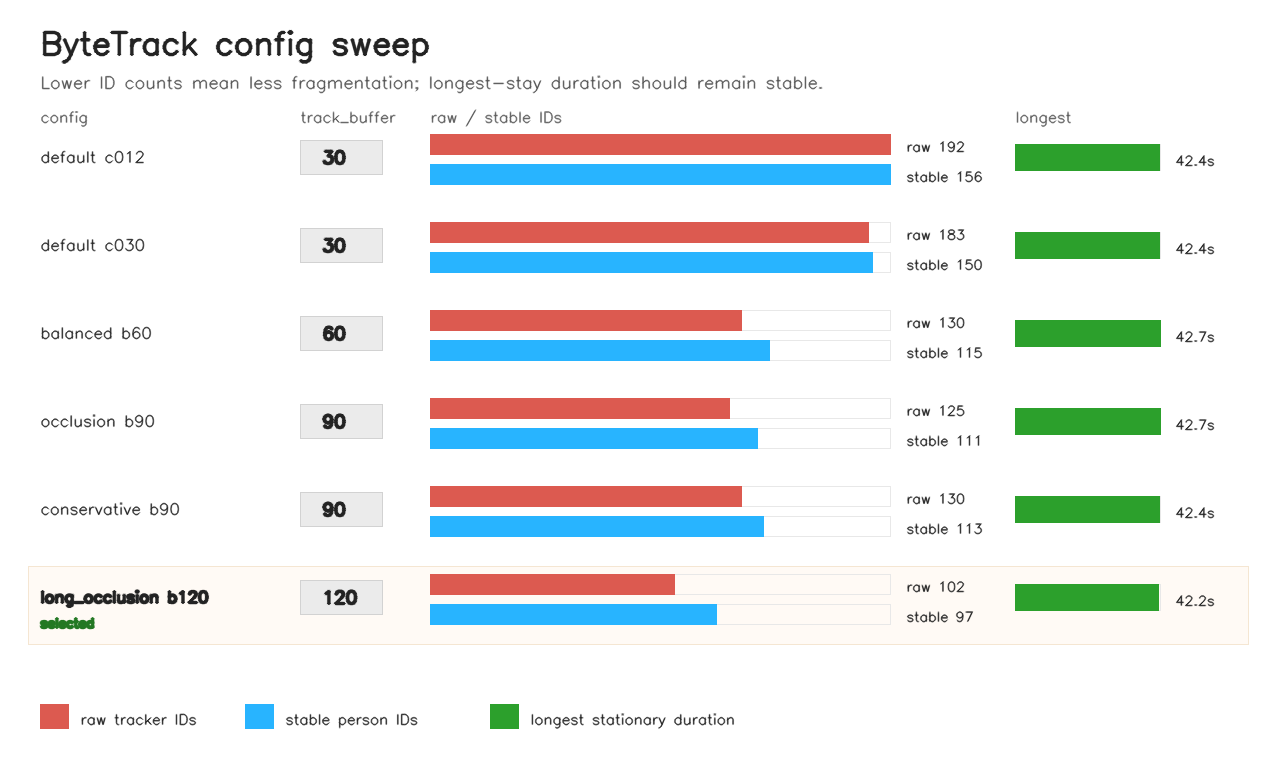
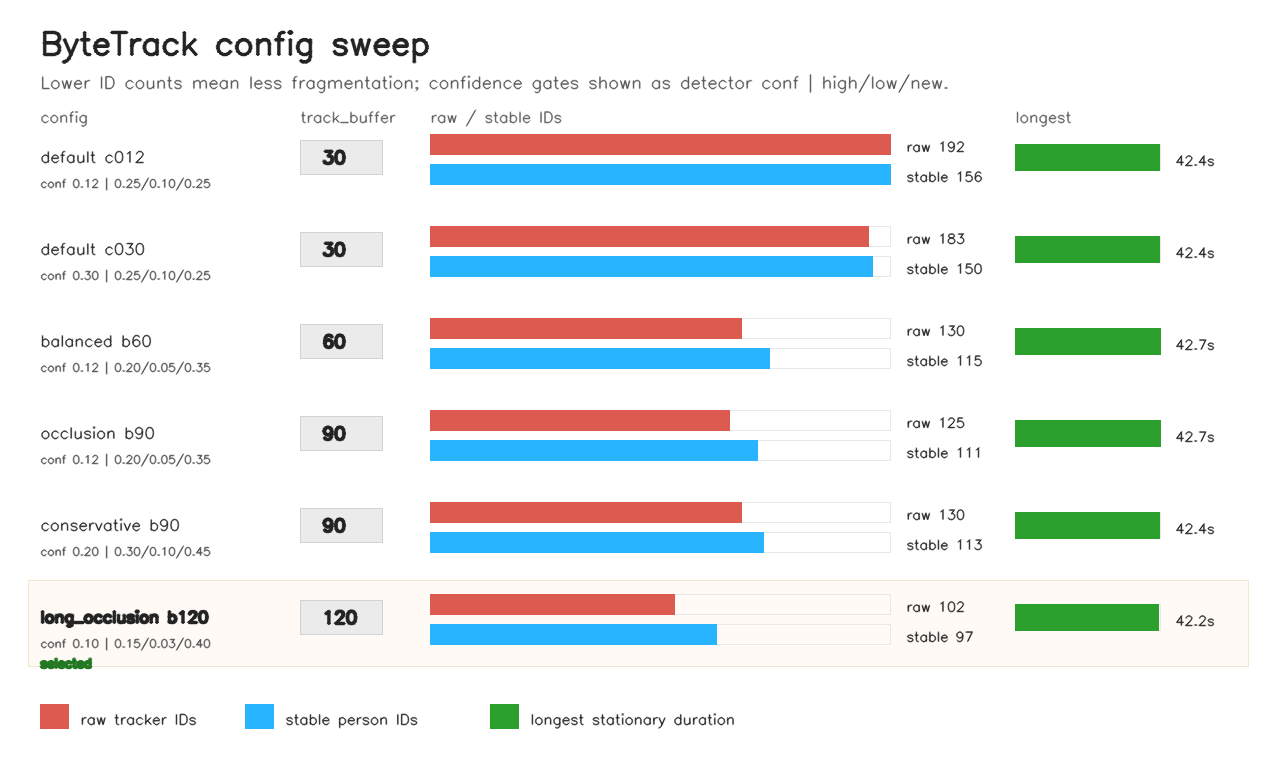
revised README.md by involving Bytetrack config experimental tracking and the necessary of track_buffer and confident score as ByteTrack hyperparameter

diff --git a/optimize_bytetrack.py b/optimize_bytetrack.py
@@ -277,14 +277,14 @@ def draw_bytetrack_sweep_chart(
     draw_text(canvas, "ByteTrack config sweep", (40, 54), scale=1.05, thickness=2)
     draw_text(
         canvas,
-        "Lower ID counts mean less fragmentation; longest-stay duration should remain stable.",
+        "Lower ID counts mean less fragmentation; confidence gates shown as detector conf | high/low/new.",
         (40, 88),
         scale=0.56,
         color=(80, 80, 80),
     )
 
     y_start = 162
-    row_gap = 88
+    row_gap = 92
     label_x = 40
     buffer_x = 300
     raw_x = 430
@@ -302,13 +302,20 @@ def draw_bytetrack_sweep_chart(
         y = y_start + index * row_gap
         is_best = str(row["experiment"]) == best_name
         if is_best:
-            cv2.rectangle(canvas, (28, y - 36), (1248, y + 42), (245, 250, 255), -1)
-            cv2.rectangle(canvas, (28, y - 36), (1248, y + 42), (210, 230, 245), 1)
+            cv2.rectangle(canvas, (28, y - 42), (1248, y + 44), (245, 250, 255), -1)
+            cv2.rectangle(canvas, (28, y - 42), (1248, y + 44), (210, 230, 245), 1)
 
         name = compact_experiment_name(row["experiment"])
         draw_text(canvas, name, (label_x, y), scale=0.52, thickness=2 if is_best else 1)
+        confidence_label = (
+            f"conf {float(row['conf']):.2f} | "
+            f"{float(row['track_high_thresh']):.2f}/"
+            f"{float(row['track_low_thresh']):.2f}/"
+            f"{float(row['new_track_thresh']):.2f}"
+        )
+        draw_text(canvas, confidence_label, (label_x, y + 25), scale=0.38, color=(80, 80, 80))
         if is_best:
-            draw_text(canvas, "selected", (label_x, y + 25), scale=0.42, color=(35, 120, 35), thickness=2)
+            draw_text(canvas, "selected", (label_x, y + 45), scale=0.4, color=(35, 120, 35), thickness=2)
 
         buffer_value = int(row["track_buffer"])
         cv2.rectangle(canvas, (buffer_x, y - 22), (buffer_x + 82, y + 12), (235, 235, 235), -1)

diff --git a/README.md b/README.md
@@ -159,9 +159,10 @@ The logged columns include the number of stable person IDs, the number of raw tr
 
 | ByteTrack config sweep |
 | --- |
-| <img src="assets/bytetrack_sweep.png" alt="ByteTrack config sweep comparing track buffer, raw tracking IDs, stable person IDs, and longest duration" width="1000"> |
+| <img src="assets/bytetrack_sweep.png" alt="ByteTrack config sweep comparing confidence thresholds, track buffer, raw tracking IDs, stable person IDs, and longest duration" width="1000"> |
 
-The selected config is `tracker_configs/bytetrack_long_occlusion.yaml`:
+The selected run uses detector `--conf 0.10` and
+`tracker_configs/bytetrack_long_occlusion.yaml`:
 
 ```yaml
 track_high_thresh: 0.15
@@ -177,6 +178,16 @@ sweep, `long_occlusion_buffer120` kept the longest stationary duration at
 `42.2s` while reducing raw tracker IDs to `102` and stable person IDs to `97`.
 The shorter default buffer configs produced `183-192` raw tracker IDs and
 `150-156` stable person IDs.
+
+The sweep varies two groups of tracking hyperparameters:
+
+| Hyperparameter group | What it controls | Practical effect |
+| --- | --- | --- |
+| Detector `--conf` | Minimum YOLO confidence before detections are passed into tracking | Lower values keep weak person detections during motion blur or occlusion, but can add false positives. |
+| `track_high_thresh` | Confidence level for strong detections used in the first ByteTrack association pass | Lower values make the tracker more willing to continue tracks with less confident detections. |
+| `track_low_thresh` | Minimum confidence for low-score detections used in ByteTrack's recovery pass | Lower values help recover people after occlusion, but increase background/noise candidates. |
+| `new_track_thresh` | Confidence required to start a new track | Higher values prevent weak detections from becoming new raw `T` IDs. |
+| `track_buffer` | How long a lost track is kept before deletion | Larger values help reconnect people after short disappearance. |
 
 `track_buffer` is the number of frames ByteTrack keeps a lost track alive before
 deleting it. The video is about `29.88 FPS`, so:
@@ -198,6 +209,15 @@ The tradeoff is that an overly long buffer can incorrectly reconnect two
 different people in a crowd. This is why the selected long-occlusion config also
 uses a stricter `match_thresh: 0.90` and why the blue ROI is important: it
 reduces irrelevant candidates before ReID and stationary scoring.
+
+Confidence score thresholds are necessary because this scene has both occlusion
+and crowded motion. A high detector confidence such as `--conf 0.30` misses more
+weak person detections, causing ByteTrack to terminate and restart tracks more
+often. A lower detector confidence such as `--conf 0.10`, combined with
+`track_low_thresh: 0.03`, gives ByteTrack low-score detections to bridge
+occlusions. To prevent that from creating too many new false tracks, the
+selected config keeps `new_track_thresh: 0.40`, so weak detections can help
+continue existing tracks but cannot easily start new tracks.
 
 ## Method
 
@@ -222,6 +242,8 @@ The bounding-box-height normalization helps account for perspective: people clos
 ## Main Parameters
 
 - `--window-seconds`: recent time window used to decide stationary status
+- `--conf`: detector confidence threshold before detections are passed to ByteTrack
+- `--tracker`: ByteTrack YAML config path
 - `--smooth-alpha`: position smoothing factor
 - `--stationary-ratio`: movement threshold relative to bbox height
 - `--min-stationary-px`: minimum movement threshold in pixels